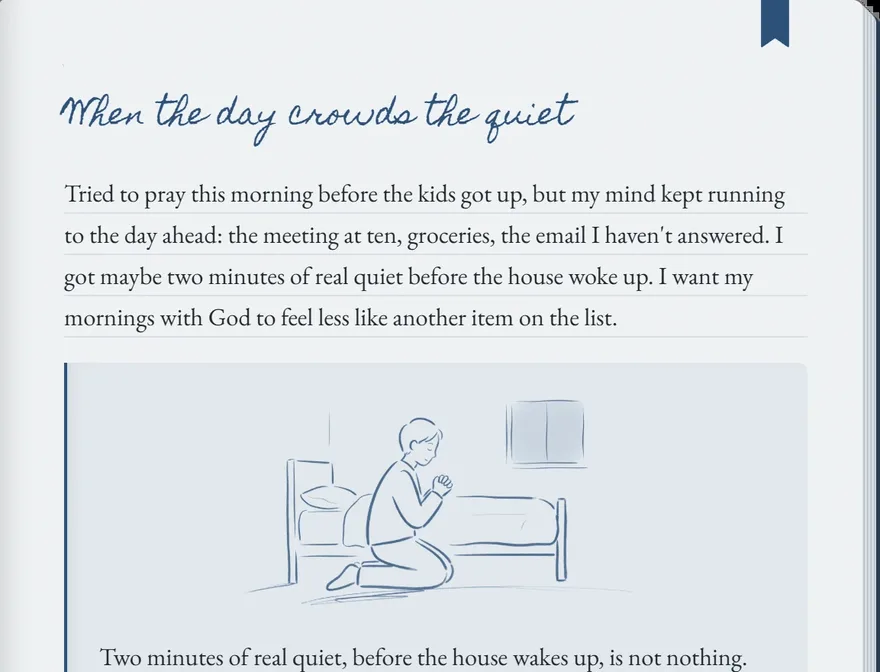
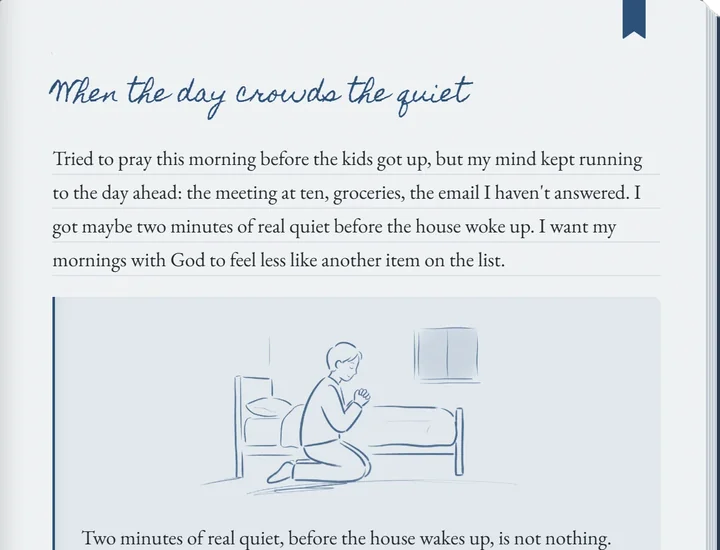
The invitation email in the app's own look; the sample picture smaller, centred and fading out
- Email: the cover (logo, the name handwritten, tagline), the page with the
  welcome line, the message, the welcome points and a button, the welcome
  verse at the foot. Table layout and inline styles for email programs; the
  handwritten name is a picture made by tools/make_email_art.py.
- Welcome page: the sample picture keeps its transparent corner, is 340px,
  centred, untilted, and fades at the bottom; "a question to carry with you".

diff --git a/templates/email/invitation.html b/templates/email/invitation.html
@@ -1,0 +1,79 @@
+<!doctype html>
+{#- The invitation email. Email programs ignore stylesheets, web fonts and most
+    modern CSS, so everything is inline and laid out with tables; the app's
+    handwritten name is a picture (tools/make_email_art.py). Colours are the
+    app's default theme. -#}
+<html lang="en">
+<head>
+<meta charset="utf-8">
+<meta name="viewport" content="width=device-width, initial-scale=1">
+<meta name="color-scheme" content="light">
+<title>{{ subject }}</title>
+</head>
+<body style="margin:0;padding:0;background:#d5dbe1;">
+<div style="display:none;max-height:0;overflow:hidden;opacity:0;">{{ preview }}</div>
+<table role="presentation" width="100%" cellpadding="0" cellspacing="0" border="0" bgcolor="#d5dbe1" style="background:#d5dbe1;">
+<tr><td align="center" style="padding:32px 12px 40px;">
+<table role="presentation" width="100%" cellpadding="0" cellspacing="0" border="0" style="max-width:560px;">
+
+  <!-- The cover: logo, the name in handwriting, the tagline -->
+  <tr><td align="center" bgcolor="#22364d" style="background:#22364d;background-image:linear-gradient(160deg,#2c4562,#1b2a3c);border-radius:12px 12px 0 0;padding:34px 24px 26px;">
+    <img src="{{ logo_url }}" width="76" height="76" alt="" style="display:block;border:0;border-radius:17px;margin:0 auto 18px;">
+    <img src="{{ wordmark_url }}" width="{{ wordmark_width }}" alt="{{ app }}" style="display:block;border:0;margin:0 auto;max-width:100%;height:auto;font-family:Georgia,serif;font-size:30px;font-style:italic;color:#f3efe4;">
+    {% if tagline %}<div style="margin-top:12px;font-family:Georgia,serif;font-size:11px;letter-spacing:3px;text-transform:uppercase;color:#c9d3df;">{{ tagline }}</div>{% endif %}
+  </td></tr>
+
+  <!-- The page -->
+  <tr><td bgcolor="#f1f5f9" style="background:#f1f5f9;padding:34px 38px 30px;border-left:6px solid #dfe5ec;font-family:Georgia,'Times New Roman',serif;font-size:17px;line-height:1.6;color:#2a3038;">
+    <p style="margin:0 0 14px;">{{ hello }}</p>
+    <p style="margin:0 0 18px;">{{ opening }}</p>
+    {% if lead %}<p style="margin:0 0 22px;font-size:20px;line-height:1.45;font-style:italic;color:#2c5180;">{{ lead }}</p>{% endif %}
+
+    {% if message %}
+    <table role="presentation" width="100%" cellpadding="0" cellspacing="0" border="0" style="margin:0 0 24px;">
+      <tr><td bgcolor="#e1e8ef" style="background:#e1e8ef;border-left:3px solid #2c5180;border-radius:0 8px 8px 0;padding:14px 18px;font-style:italic;">
+        “{{ message }}”{% if who %}<div style="margin-top:6px;font-style:normal;font-size:14px;color:#5b6673;">{{ who }}</div>{% endif %}
+      </td></tr>
+    </table>
+    {% endif %}
+
+    {% if points %}
+    <table role="presentation" cellpadding="0" cellspacing="0" border="0" style="margin:0 0 26px;">
+      {% for point in points %}
+      <tr>
+        <td valign="top" style="padding:0 10px 8px 0;font-size:15px;line-height:1.5;color:#2c5180;">&#10003;</td>
+        <td valign="top" style="padding:0 0 8px;font-size:15px;line-height:1.5;color:#3a424c;">{{ point }}</td>
+      </tr>
+      {% endfor %}
+    </table>
+    {% endif %}
+
+    <!-- The button -->
+    <table role="presentation" cellpadding="0" cellspacing="0" border="0" align="center" style="margin:0 auto 24px;">
+      <tr><td align="center" bgcolor="#2c5180" style="background:#2c5180;border-radius:8px;">
+        <a href="{{ site_url }}" style="display:inline-block;padding:14px 30px;font-family:Georgia,serif;font-size:17px;color:#ffffff;text-decoration:none;border-radius:8px;">Open {{ app }}</a>
+      </td></tr>
+    </table>
+
+    <p style="margin:0;font-size:14px;line-height:1.55;color:#5b6673;">{{ sign_in }}</p>
+  </td></tr>
+
+  <!-- The foot of the page: the welcome verse -->
+  {% if quote %}
+  <tr><td align="center" bgcolor="#e1e8ef" style="background:#e1e8ef;border-left:6px solid #dfe5ec;border-radius:0 0 12px 12px;padding:22px 38px 24px;font-family:Georgia,serif;">
+    <div style="font-size:16px;line-height:1.5;font-style:italic;color:#2c5180;">{{ quote }}</div>
+    <div style="margin-top:6px;font-size:13px;color:#5b6673;">{{ quote_cite }}</div>
+  </td></tr>
+  {% endif %}
+
+  <!-- Below the book -->
+  <tr><td align="center" style="padding:20px 24px 0;font-family:Georgia,serif;font-size:12px;line-height:1.55;color:#5b6673;">
+    {{ no_reply }}<br>
+    <a href="{{ site_url }}privacy" style="color:#5b6673;">How your writing is kept private</a>
+  </td></tr>
+
+</table>
+</td></tr>
+</table>
+</body>
+</html>

diff --git a/static/style.css b/static/style.css
@@ -1243,13 +1243,20 @@ input.invite-input:focus { border-color: var(--accent); outline: none; }
   font-size: 0.85rem; line-height: 1.5;
   -webkit-mask: linear-gradient(to bottom, #000 30%, transparent 85%); mask: linear-gradient(to bottom, #000 30%, transparent 85%);
 }
+/* The picture of the sample page, centred, fading out at the bottom. The fade is on the
+   picture and the shadow on its frame, so the shadow fades with it. Not tilted: a turned
+   picture's edges go jagged. */
+.sample-card:has(.sample-shot), .sample-card:has(.sample-shot):hover:not(:disabled) { align-self: center; align-items: center; text-align: center; }
 .sample-shot {
-  display: block; width: min(100%, 440px); aspect-ratio: 880 / 672; overflow: hidden; border-radius: 3px 8px 8px 3px;
-  box-shadow: 10px 16px 30px -8px rgba(0, 0, 0, 0.45);
-  transform: rotate(-1.5deg); transition: transform 0.25s ease-out;
+  display: block; width: min(100%, 340px); aspect-ratio: 720 / 550;
+  filter: drop-shadow(0 10px 18px rgba(0, 0, 0, 0.4));
+  transition: transform 0.25s ease-out;
 }
-.sample-shot img { display: block; width: 100%; height: auto; }
-.sample-card:hover .sample-shot, .sample-card:focus-visible .sample-shot { transform: rotate(0deg) translateY(-3px); }
+.sample-shot img {
+  display: block; width: 100%; height: auto;
+  -webkit-mask: linear-gradient(to bottom, #000 55%, transparent 98%); mask: linear-gradient(to bottom, #000 55%, transparent 98%);
+}
+.sample-card:hover .sample-shot, .sample-card:focus-visible .sample-shot { transform: translateY(-3px); }
 .sample-card:focus-visible .sample-shot { outline: 2px solid hsl(var(--paper-hue) 40% 94%); outline-offset: 4px; }
 .sample-card-caption { font-size: 0.95rem; text-decoration: underline; text-underline-offset: 3px; opacity: 0.95; }
 

diff --git a/templates/index.html b/templates/index.html
@@ -68,7 +68,7 @@
       <button type="button" id="sample-btn" class="sample-card" aria-haspopup="dialog">
         {% if sample.image %}
         <!-- A picture of the sample page, as it looks in the journal -->
-        <span class="sample-shot"><img src="{{ static_url(brand_path ~ '/' ~ sample.image) }}" alt="" width="880" height="672"></span>
+        <span class="sample-shot"><img src="{{ static_url(brand_path ~ '/' ~ sample.image) }}" alt="" width="720" height="550"></span>
         {% else %}
         <span class="sample-mini" aria-hidden="true">
           <span class="sample-mini-ribbon"><svg viewBox="0 0 26 42" aria-hidden="true"><path d="M1.5 0V40.5L13 32.5L24.5 40.5V0"/></svg></span>

diff --git a/journal/invites.py b/journal/invites.py
@@ -17,12 +17,21 @@ later (higher limits, free months, ...).
 Like feedback, requests are not encrypted: they're meant to be read by
 whoever runs the app.
 """
-import html
 import re
 from datetime import datetime
 
+from jinja2 import Environment, FileSystemLoader, select_autoescape
+
 from . import config, db, mail
-from .config import TZ
+from .config import ROOT, TZ
+
+EMAILS = Environment(loader=FileSystemLoader(ROOT / "templates" / "email"), autoescape=select_autoescape(["html"]))
+
+
+def _png_width(path):
+    """A PNG's width, from its header (no imaging library on the server)."""
+    with open(path, "rb") as f:
+        return int.from_bytes(f.read(24)[16:20], "big")
 
 STATUSES = ("requested", "declined")   # "added" is worked out from the allowed list
 PER_DAY = 10
@@ -227,32 +236,36 @@ def invitation(inv, site_url):
 
     The note on a request was written to whoever runs the app, so it's never
     passed on; only a message written for the invitation itself is."""
-    app, lead = config.APP_NAME, config.EDITION.get("lead", "")
+    edition = config.EDITION
+    app, lead = config.APP_NAME, edition.get("lead", "")
     who = (inv.get("requester_name") or "").strip()
     subject = f"{who} invited you to {app}" if who else f"You're invited to {app}"
     hello = f"Hi {inv['name']}," if inv.get("name") else "Hi,"
     opening = f"{who} has invited you to {app}." if who else f"You're invited to {app}."
-    sign_in = (f"Open {app} and sign in with Google using this address ({inv['email']}). "
+    sign_in = (f"Sign in with Google using this address ({inv['email']}). "
                "The first time, you'll choose a passphrase that keeps your journal private: "
                "only you can read what you write.")
     no_reply = ("This address doesn't receive replies. If you have a question, use the Feedback "
                 "button (the speech bubble) once you're signed in.")
     message = inv.get("message")
+    points = [p["title"] for p in edition.get("points", [])]
+    quote = edition.get("welcome_quote") or {}
+    quote_cite = re.sub(r"<[^>]+>", "", quote.get("cite_html", ""))
     text = "\n\n".join(p for p in (
         hello, opening, lead, f"“{message}”" if message else None,
-        sign_in, f"Open {app}: {site_url}", no_reply) if p)
-    e = html.escape
-    accent = "#2f5687"
-    paras = (e(hello), e(opening), f"<em>{e(lead)}</em>" if lead else None,
-             f'<span style="display:block;border-left:3px solid {accent};padding-left:12px;font-style:italic">'
-             f'“{e(message)}”</span>' if message else None,
-             e(sign_in))
-    body = "".join(f'<p style="margin:0 0 16px">{p}</p>' for p in paras if p)
-    page = (f'<div style="font-family:Georgia,serif;font-size:17px;line-height:1.55;color:#2a2a2a;max-width:520px">'
-            f'{body}'
-            f'<p style="margin:24px 0"><a href="{e(site_url)}" style="background:{accent};color:#ffffff;'
-            f'text-decoration:none;padding:12px 22px;border-radius:6px;display:inline-block">Open {e(app)}</a></p>'
-            f'<p style="margin:24px 0 0;font-size:13px;color:#777777">{e(no_reply)}</p></div>')
+        "\n".join(f"- {p}" for p in points) or None,
+        f"Open {app}: {site_url}", sign_in,
+        f"{quote['text']}\n{quote_cite}" if quote else None, no_reply) if p)
+    site = site_url if site_url.endswith("/") else site_url + "/"
+    brand = f"{site}static/brands/{config.EDITION_NAME}"
+    wordmark = ROOT / "static" / "brands" / config.EDITION_NAME / "email-wordmark.png"
+    page = EMAILS.get_template("invitation.html").render(
+        subject=subject, preview=f"{opening} {lead}".strip(), app=app, tagline=edition.get("tagline"),
+        logo_url=f"{brand}/logo.png", wordmark_url=f"{brand}/email-wordmark.png",
+        wordmark_width=_png_width(wordmark) // 2 if wordmark.exists() else 300,
+        hello=hello, opening=opening, lead=lead, message=message, who=f"— {who}" if who else "",
+        points=points, site_url=site, sign_in=sign_in, quote=quote.get("text"), quote_cite=quote_cite,
+        no_reply=no_reply)
     return subject, text, page
 
 

diff --git a/tools/make_email_art.py b/tools/make_email_art.py
@@ -1,0 +1,45 @@
+"""Makes the pictures the invitation email uses, for each edition:
+
+  static/brands/<edition>/email-wordmark.png   the app's name, handwritten
+                                               (Homemade Apple) in the cover's
+                                               cream, on a clear background
+
+Email programs can't load the app's fonts, so the name goes in as a picture,
+like the logo. Made at twice the size it's shown, for sharp screens.
+
+Run after changing an edition's name:
+  .venv/Scripts/python.exe tools/make_email_art.py
+"""
+import json
+from pathlib import Path
+
+from PIL import Image, ImageDraw, ImageFont
+
+ROOT = Path(__file__).resolve().parent.parent
+FONT = ROOT / "static" / "fonts" / "HomemadeApple-Regular.ttf"
+CREAM = (243, 239, 228)       # the cover's lettering: hsl(paper-hue 40% 94%)
+SIZE = 76                     # shown at half: about 38px
+PAD = 24
+GAP = 0.32                    # between words, as a share of the size: the swashes otherwise close the gaps
+
+
+def wordmark(name, out):
+    font = ImageFont.truetype(str(FONT), SIZE)
+    measure = ImageDraw.Draw(Image.new("L", (1, 1)))
+    words = [(w, measure.textbbox((0, 0), w, font=font)) for w in name.split()]
+    gap = round(SIZE * GAP)
+    top = min(b[1] for _, b in words)
+    width = sum(b[2] - b[0] for _, b in words) + gap * (len(words) - 1)
+    img = Image.new("RGBA", (width + 2 * PAD, max(b[3] for _, b in words) - top + 2 * PAD), (0, 0, 0, 0))
+    draw, x = ImageDraw.Draw(img), PAD
+    for word, (left, _, right, _) in words:
+        draw.text((x - left, PAD - top), word, font=font, fill=CREAM + (255,))
+        x += right - left + gap
+    img.save(out, optimize=True)
+    return img.size
+
+
+for folder in sorted((ROOT / "editions").iterdir()):
+    edition = json.loads((folder / "edition.json").read_text(encoding="utf-8"))
+    out = ROOT / "static" / "brands" / folder.name / "email-wordmark.png"
+    print(folder.name, wordmark(edition["app_name"], out), out.relative_to(ROOT))
